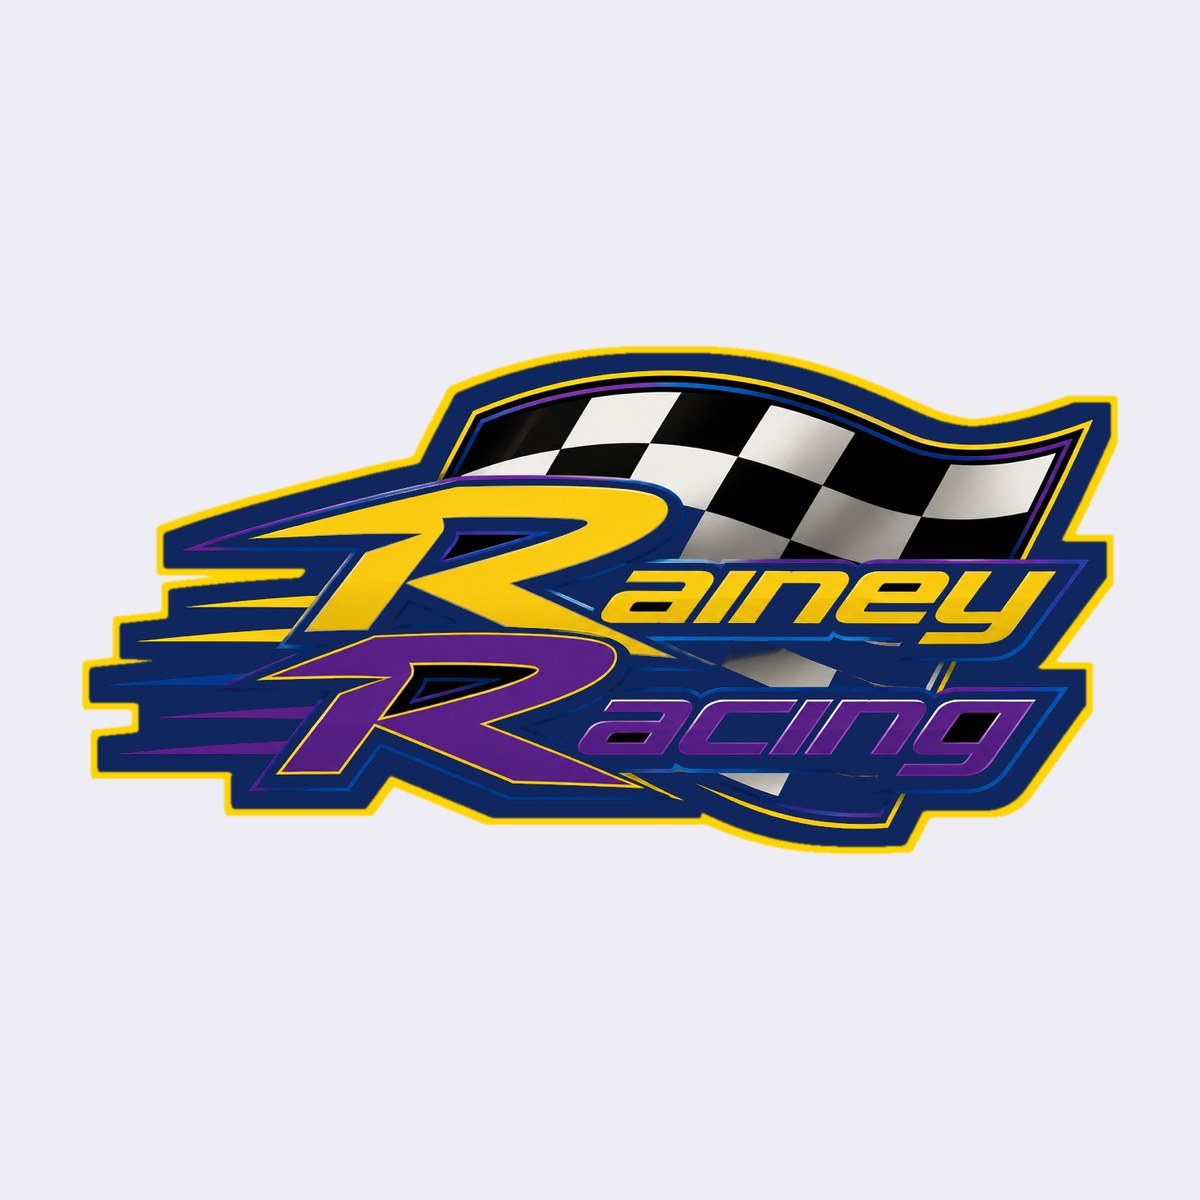
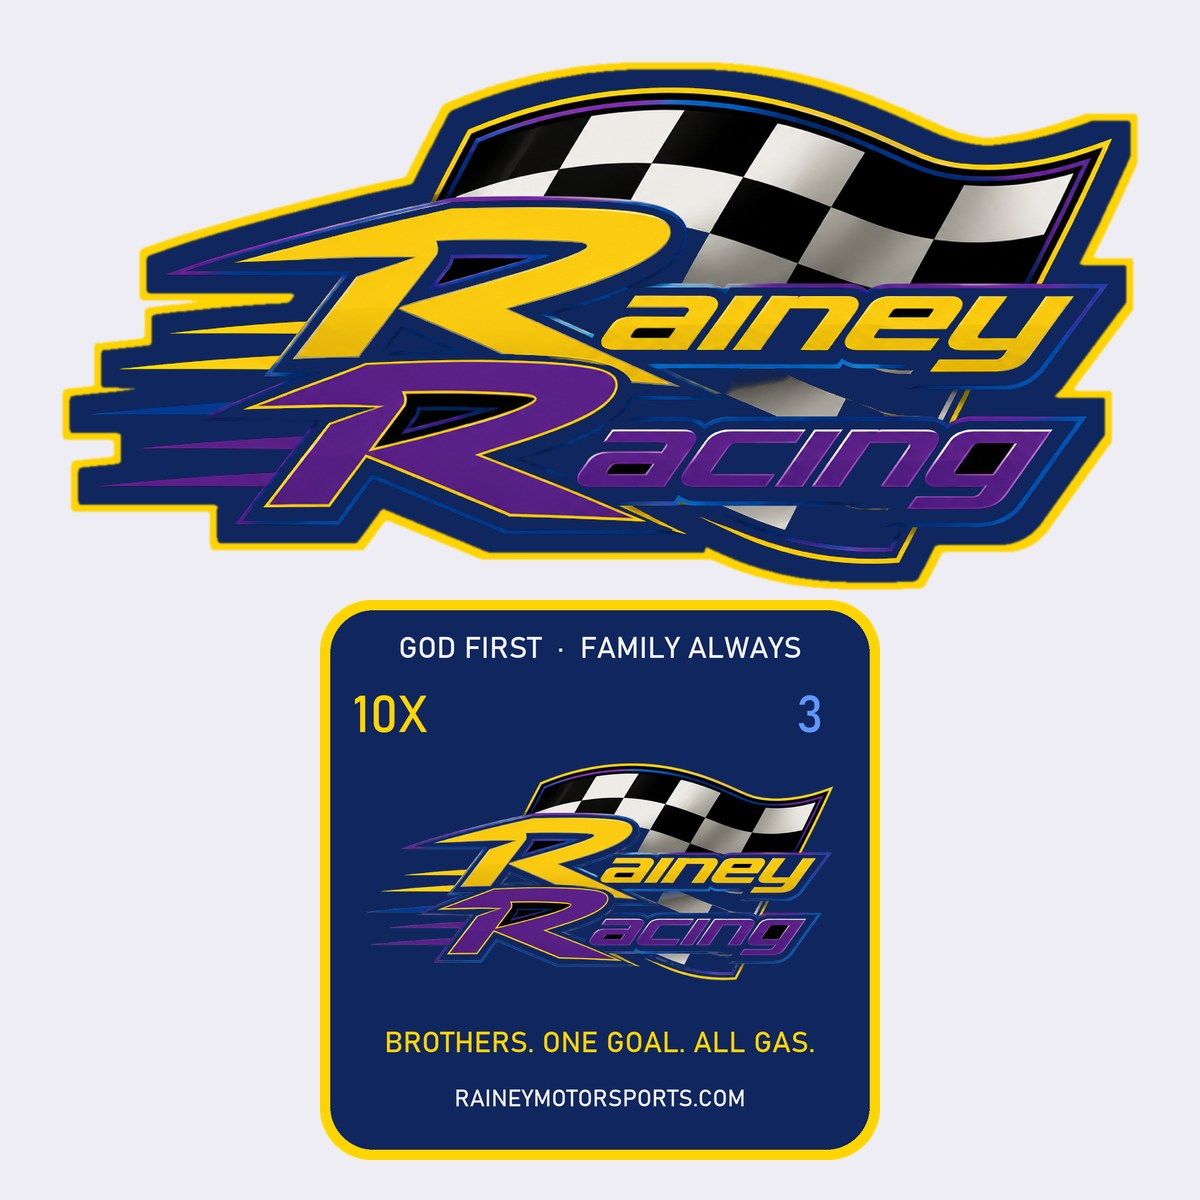
Add 4x4 sticker size at $7 with new two-design product photo

diff --git a/index.html b/index.html
@@ -796,8 +796,8 @@
                     <img class="merch-img" src="images/merch/sticker.jpg" alt="Rainey Racing team sticker — dark blue with yellow edge and the team logo" loading="lazy">
                     <div class="merch-info">
                         <h3>Team Sticker</h3>
-                        <p class="merch-desc">The Rainey Racing logo on a dark blue sticker with a yellow edge — for helmets, water bottles, toolboxes, anywhere.</p>
-                        <div class="merch-price">$3 <span>2-inch (2 for $5) · $5 for the 3-inch</span></div>
+                        <p class="merch-desc">The Rainey Racing logo on a dark blue sticker with a yellow edge — plus the big 4x4 with both kart numbers, the team motto, and the website. For helmets, water bottles, toolboxes, anywhere.</p>
+                        <div class="merch-price">$3 <span>2-inch (2 for $5) · $5 3-inch · $7 4x4 (2 for $12)</span></div>
                     </div>
                 </div>
             </div>
@@ -830,7 +830,7 @@
                             <option value="Team Hat">Team Hat — $35</option>
                             <option value="Drink Koozie">Drink Koozie — $8 (2 for $15)</option>
                             <option value="Team Decal">Team Decal — $10 (6") / $15 (8")</option>
-                            <option value="Team Sticker">Team Sticker — $3 (2") / $5 (3")</option>
+                            <option value="Team Sticker">Team Sticker — $3 (2") / $5 (3") / $7 (4x4)</option>
                         </select>
                     </div>
                 </div>
@@ -996,6 +996,6 @@
     <!-- Back to top -->
     <button class="back-to-top" id="backToTop" aria-label="Back to top">▲</button>
 
-    <script src="script.js?v=5"></script>
+    <script src="script.js?v=6"></script>
 </body>
 </html>

diff --git a/script.js b/script.js
@@ -252,7 +252,7 @@ const ITEM_OPTIONS = {
     'Team Hat': ['One Size Fits Most - $35'],
     'Drink Koozie': ['Black - $8 (2 for $15)', 'Purple - $8 (2 for $15)'],
     'Team Decal': ['6 inch - $10', '8 inch - $15'],
-    'Team Sticker': ['2 inch - $3 (2 for $5)', '3 inch - $5']
+    'Team Sticker': ['2 inch - $3 (2 for $5)', '3 inch - $5', '4x4 - $7 (2 for $12)']
 };
 const orderItemSel = document.getElementById('order-item');
 const orderSizeSel = document.getElementById('order-size');